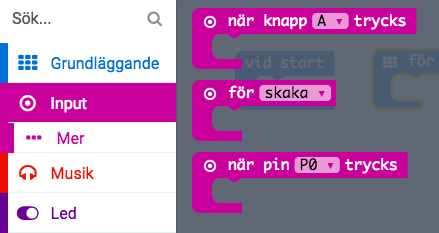
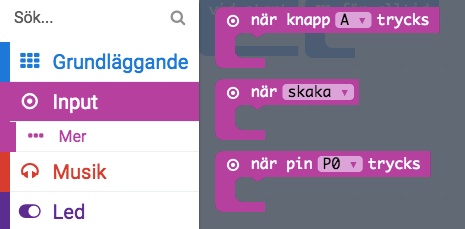
Uppdatera bilderna till Sten sax och påse

diff --git a/microbit_stensaxpase/README.html b/microbit_stensaxpase/README.html
@@ -12,11 +12,11 @@
 </blockquote>
 <p>Sten, sax och påse spelet ska däremot starta när du skakar på micro:biten.</p>
 <ol>
-<li><p>Dra ett block <strong>&quot;för skaka&quot;</strong> från kategorin <strong>Input</strong> till kodytan</p>
+<li><p>Dra ett block <strong>&quot;när skaka&quot;</strong> från kategorin <strong>Input</strong> till kodytan</p>
 <p> <img src="image_4.png" alt="image alt text"></p>
 <p> <img src="image_5.png" alt="image alt text"></p>
 </li>
-<li><p>Dra in ett block <strong>&quot;sätt <em>namnlös</em> på 0</strong>&quot; från kategorin <strong>Variabler</strong> och lägg det innanför “för skaka”-blocket</p>
+<li><p>Dra in ett block <strong>&quot;sätt <em>namnlös</em> till 0</strong>&quot; från kategorin <strong>Variabler</strong> och lägg det innanför när skaka”-blocket</p>
 </li>
 <li><p>Klicka på nedåtpilen bredvid <strong><em>namnlös</em></strong> och sedan på <strong>Ändra namn på variablen...</strong></p>
 <p> <img src="image_6.png" alt="image alt text"></p>
@@ -77,7 +77,7 @@
 <ol>
 <li><p>Lägg in följande kod under blocket <strong>&quot;vid start&quot;</strong></p>
 <ol>
-<li><p>Sätt <strong>&quot;hand&quot;</strong> på -1</p>
+<li><p>Sätt <strong>&quot;hand&quot;</strong> till -1</p>
 </li>
 <li><p>Radio <strong>ställ in grupp</strong> 1. Detta block hittar du under kategorin <strong>Radio</strong>.</p>
 <blockquote>
@@ -100,8 +100,7 @@
 </li>
 <li><p>Istället för att kalla variabeln som du tar emot <strong>&quot;receivedNumber&quot;</strong> så ska du kalla den <strong>“hand2”</strong></p>
 </li>
-<li><p>Klicka på den lilla pilen bredvid variabeln namnet och sedan på <strong>&quot;ändra namn på variabel&quot;</strong></p>
-<p> <img src="image_15.png" alt="image alt text"></p>
+<li><p>Klicka på den texten <em>&quot;receivedNumber&quot;</em> så kommer det upp en ruta där du kan skriva in det nya namnet.</p>
 </li>
 <li><p>Döp variabeln till <strong>&quot;hand2&quot;</strong></p>
 </li>
@@ -157,7 +156,7 @@
 <p>Visa gärna någon det som du har gjort och låt dem testa. Tryck på DELA och dela koden med en kompis.</p>
 </blockquote>
 <h2 id="utmaningar">Utmaningar</h2>
-<h4 id="animation">Animation</h4>
+<h3 id="animation">Animation</h3>
 <p>Skapa en animation i stället för att visa en glad eller ledsen ikon när du tar emot radiosignalen från din kompis.</p>
 <ul>
 <li><p>Du kan använda block i kategorierna <strong>Grundläggande</strong> och <strong>Loopar</strong></p>
@@ -165,7 +164,7 @@
 <li><p>Eller så kan du använda mer avancerade block som du hittar om du klickar på <strong>Avancerat</strong> och sedan <strong>Bilder</strong></p>
 </li>
 </ul>
-<h5 id="javascript">Javascript</h5>
+<h4 id="javascript">Javascript</h4>
 <p>Utforska det textbaserade språket <em>Javascript</em>! Precis all kod du kan skriva med hjälp av block kan du också skriva med ett textbaserad programmeringsspråk.</p>
 <ul>
 <li><p>Klicka på knappen <strong>JavaScript</strong></p>

diff --git a/microbit_stensaxpase/README.md b/microbit_stensaxpase/README.md
@@ -16,13 +16,13 @@ Nu ska du få börja koda en enkel variant där du skakar fram en sten, sax elle
 
 Sten, sax och påse spelet ska däremot starta när du skakar på micro:biten.
 
-1. Dra ett block **"för skaka"** från kategorin **Input** till kodytan
+1. Dra ett block **"när skaka"** från kategorin **Input** till kodytan
 
     ![image alt text](image_4.png)
 
     ![image alt text](image_5.png)
 
-2. Dra in ett block **"sätt _namnlös_ på 0**" från kategorin **Variabler** och lägg det innanför “för skaka”-blocket
+2. Dra in ett block **"sätt _namnlös_ till 0**" från kategorin **Variabler** och lägg det innanför när skaka”-blocket
 
 3. Klicka på nedåtpilen bredvid **_namnlös_** och sedan på **Ändra namn på variablen...**
 
@@ -83,7 +83,7 @@ Här behöver du kommunicera med minst en annan person som kodar samma uppgift, 
 
 1. Lägg in följande kod under blocket **"vid start"**
 
-    1. Sätt **"hand"** på -1
+    1. Sätt **"hand"** till -1
 
     2. Radio **ställ in grupp** 1. Detta block hittar du under kategorin **Radio**.
 
@@ -107,9 +107,7 @@ Nu kommer du hela tiden sända värdet på variabeln **"hand"** till den andra m
 
 2. Istället för att kalla variabeln som du tar emot **"receivedNumber"** så ska du kalla den **“hand2”**
 
-3. Klicka på den lilla pilen bredvid variabeln namnet och sedan på **"ändra namn på variabel"**
-
-    ![image alt text](image_15.png)
+3. Klicka på den texten *"receivedNumber"* så kommer det upp en ruta där du kan skriva in det nya namnet.
 
 4. Döp variabeln till **"hand2"**
 
@@ -164,7 +162,7 @@ Glöm inte att spara ditt projekt! Döp det gärna till uppgiftens namn så att 
 
 ## Utmaningar
 
-#### Animation
+### Animation
 
 Skapa en animation i stället för att visa en glad eller ledsen ikon när du tar emot radiosignalen från din kompis.
 
@@ -172,7 +170,7 @@ Skapa en animation i stället för att visa en glad eller ledsen ikon när du ta
 
 * Eller så kan du använda mer avancerade block som du hittar om du klickar på **Avancerat** och sedan **Bilder**
 
-##### Javascript
+#### Javascript
 
 Utforska det textbaserade språket *Javascript*! Precis all kod du kan skriva med hjälp av block kan du också skriva med ett textbaserad programmeringsspråk.
 
